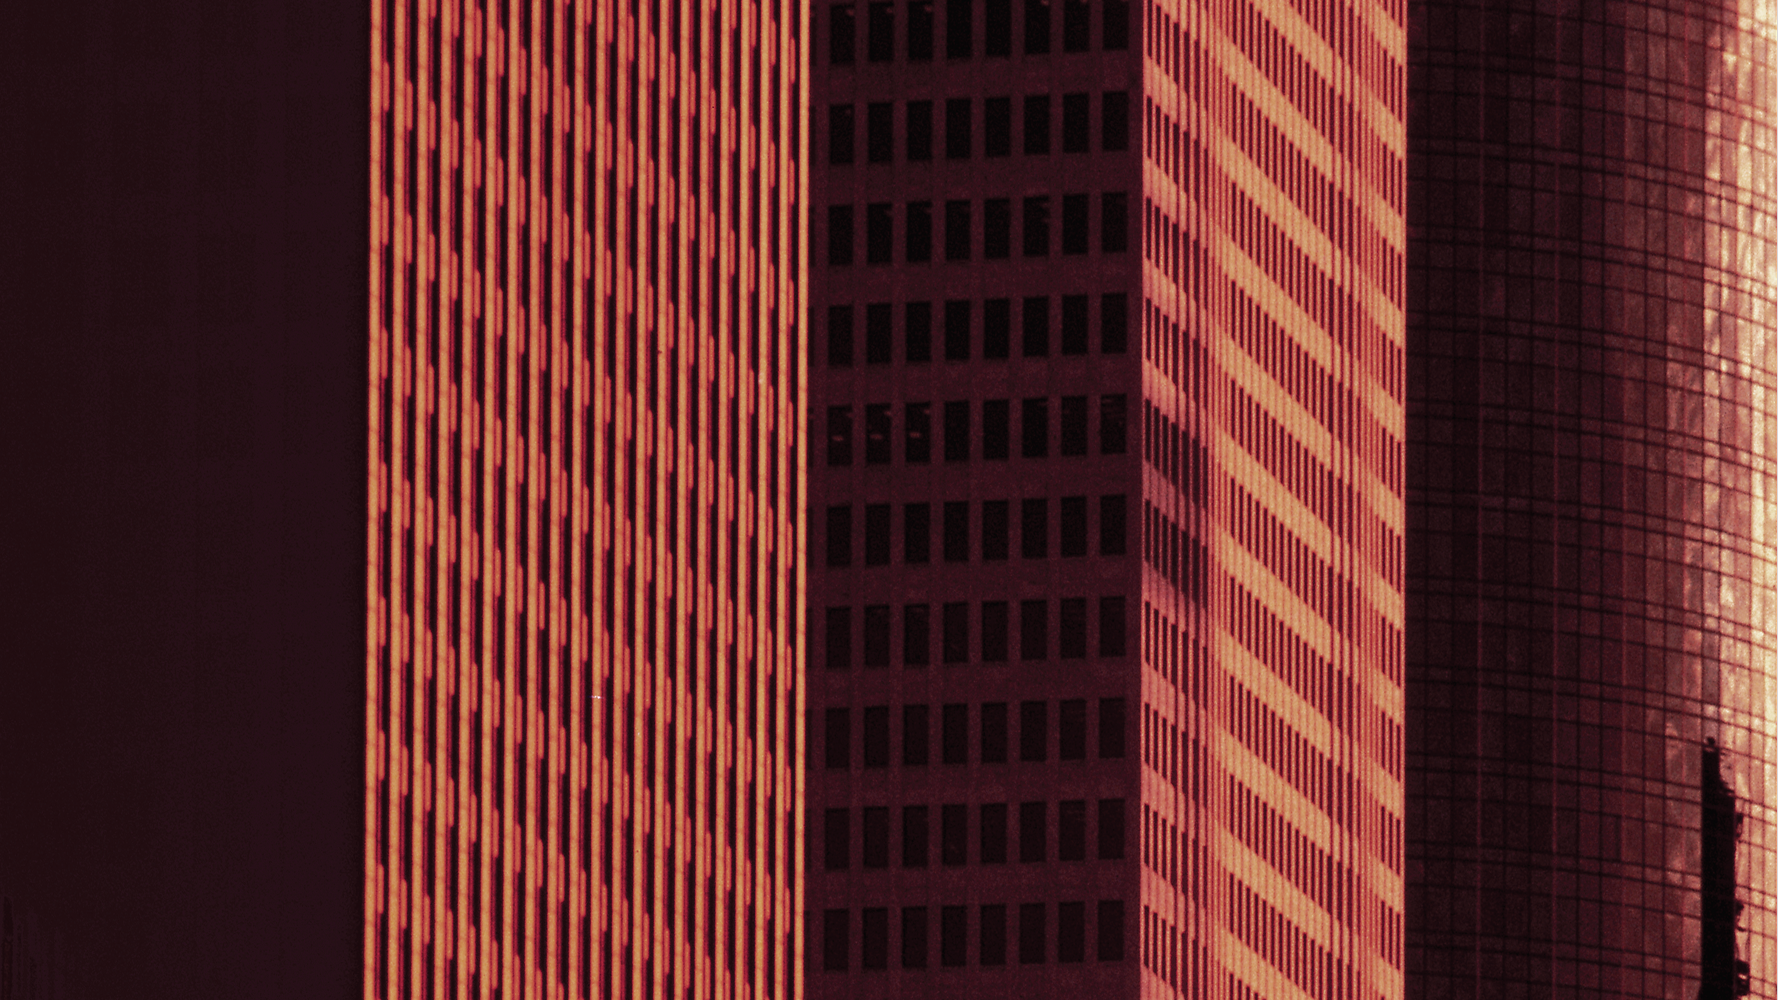
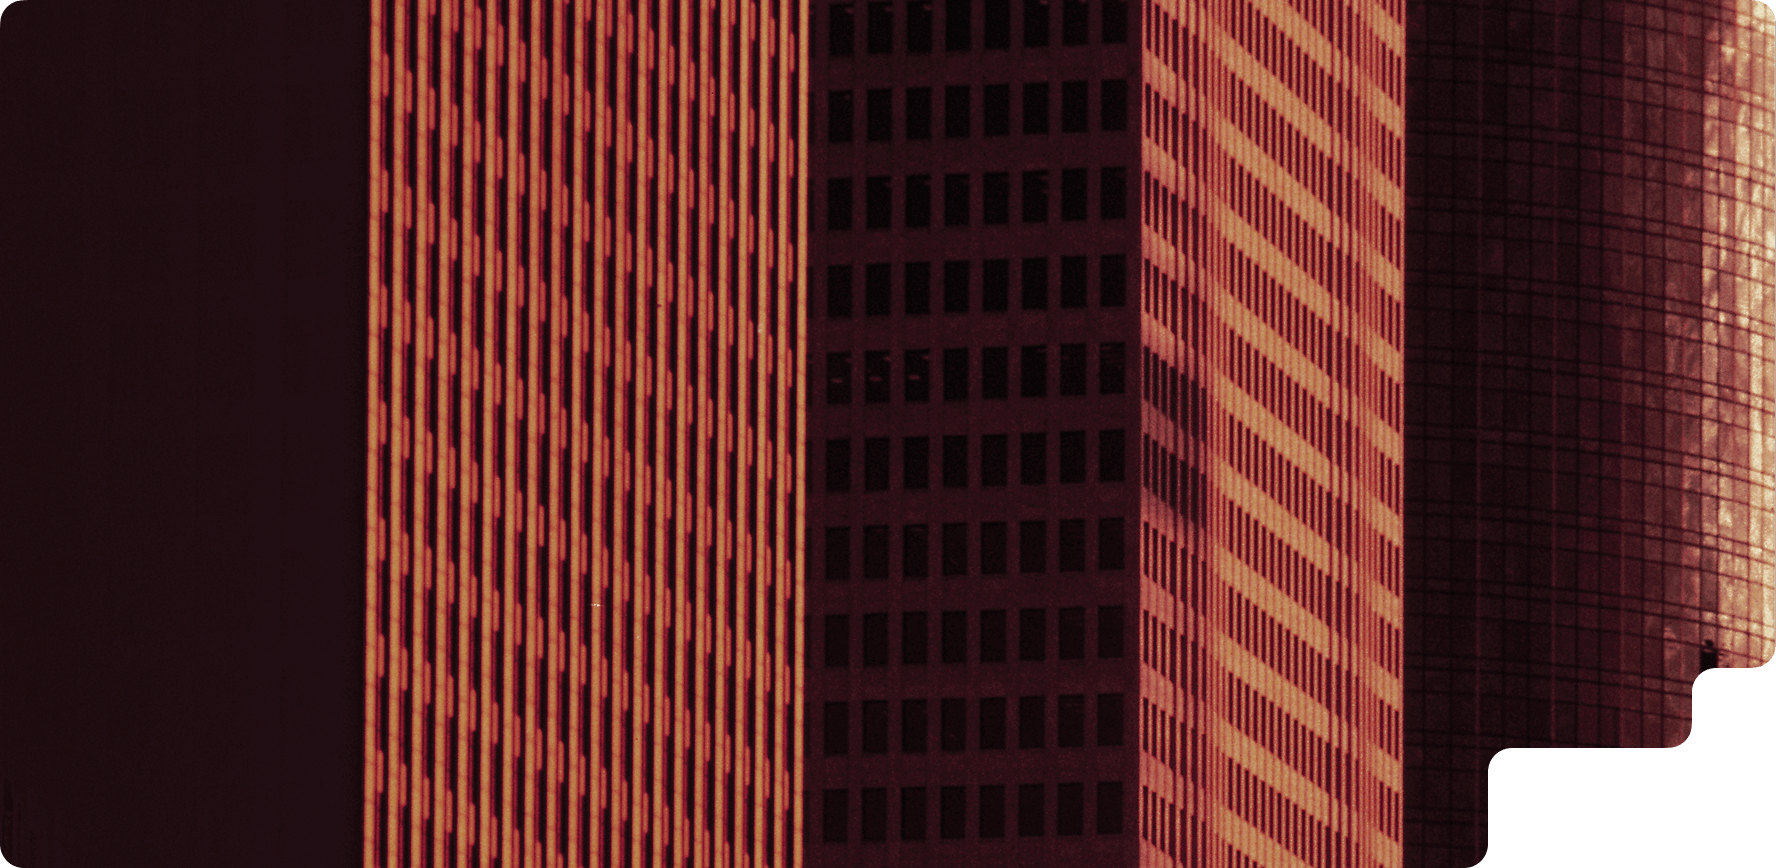
메인임시수정

diff --git a/resources/frontAssets/mo/css/main.css b/resources/frontAssets/mo/css/main.css
@@ -243,24 +243,6 @@ body {
   margin-bottom: 22px;
 }
 
-.main .page-header__content::before, .main .page-header__content::after {
-  content: "";
-  position: absolute;
-  width: 48px;
-  top: 141px;
-  height: 48.6666px;
-  background-size: 100% 100%;
-  background-position: center;
-}
-.main .page-header__content::before {
-  left: 0;
-  background-image: url("../../../frontAssets/mo/image/main_visual_mask_left.png");
-}
-.main .page-header__content::after {
-  right: 0;
-  background-image: url("../../../frontAssets/mo/image/main_visual_mask_right.png");
-}
-
 .content-container {
   padding: 0 24px 80px;
 }
@@ -2154,9 +2136,16 @@ input[type=search]::-webkit-search-cancel-button {
 .main .page-header__content {
   height: calc(100vh - 88px);
   background-image: url("../../../frontAssets/mo/image/visual_img_main.png");
+  border-radius: 12px;
   align-items: flex-start;
 }
-.main .page-header__content::before, .main .page-header__content::after {
+.main .page-header__content::before {
+  width: 92px;
+  height: 222px;
+  background-image: url("../../../frontAssets/mo/image/visual_mask_main.png");
+  background-size: 100% 100%;
+}
+.main .page-header__content::after {
   display: none;
 }
 .main .page-header__text {

diff --git a/resources/frontAssets/mo/css/main.scss b/resources/frontAssets/mo/css/main.scss
@@ -282,31 +282,6 @@ body {
   }
 }
 
-.main {
-  .page-header__content {
-    &::before,
-    &::after {
-      content: '';
-      position: absolute;
-      width: 48px;
-      top: 141px;
-      height: 48.6666px;
-      background-size: 100% 100%;
-      background-position: center;
-    }
-
-    &::before {
-      left: 0;
-      background-image: url('../../../frontAssets/mo/image/main_visual_mask_left.png');
-    }
-
-    &::after {
-      right: 0;
-      background-image: url('../../../frontAssets/mo/image/main_visual_mask_right.png');
-    }
-  }
-}
-
 .content-container {
   padding: 0 24px 80px;
 }
@@ -2481,11 +2456,17 @@ input[type='search']::-webkit-search-cancel-button {
     &__content {
       height: calc(100vh - 88px);
       background-image: url('../../../frontAssets/mo/image/visual_img_main.png');
-      &::before,
+      border-radius: 12px;
+      align-items: flex-start;
+      &::before {
+        width: 92px;
+        height: 222px;
+        background-image: url('../../../frontAssets/mo/image/visual_mask_main.png');
+        background-size: 100% 100%;
+      }
       &::after {
         display: none;
       }
-      align-items: flex-start;
     }
     &__text {
       padding: 48px 36px;

diff --git a/resources/frontAssets/pc/css/main.scss b/resources/frontAssets/pc/css/main.scss
@@ -2518,7 +2518,8 @@ body {
     border-radius: 40px;
     overflow: hidden;
     max-width: 1776px;
-    height: calc(100vh - 212px);
+    // height: calc(100vh - 212px);
+    height: 868px;
     margin: 0 auto;
     font-weight: 700;
     font-size: 24px;

diff --git a/resources/frontAssets/pc/css/main.css b/resources/frontAssets/pc/css/main.css
@@ -2160,7 +2160,7 @@ body {
   border-radius: 40px;
   overflow: hidden;
   max-width: 1776px;
-  height: calc(100vh - 212px);
+  height: 868px;
   margin: 0 auto;
   font-weight: 700;
   font-size: 24px;
